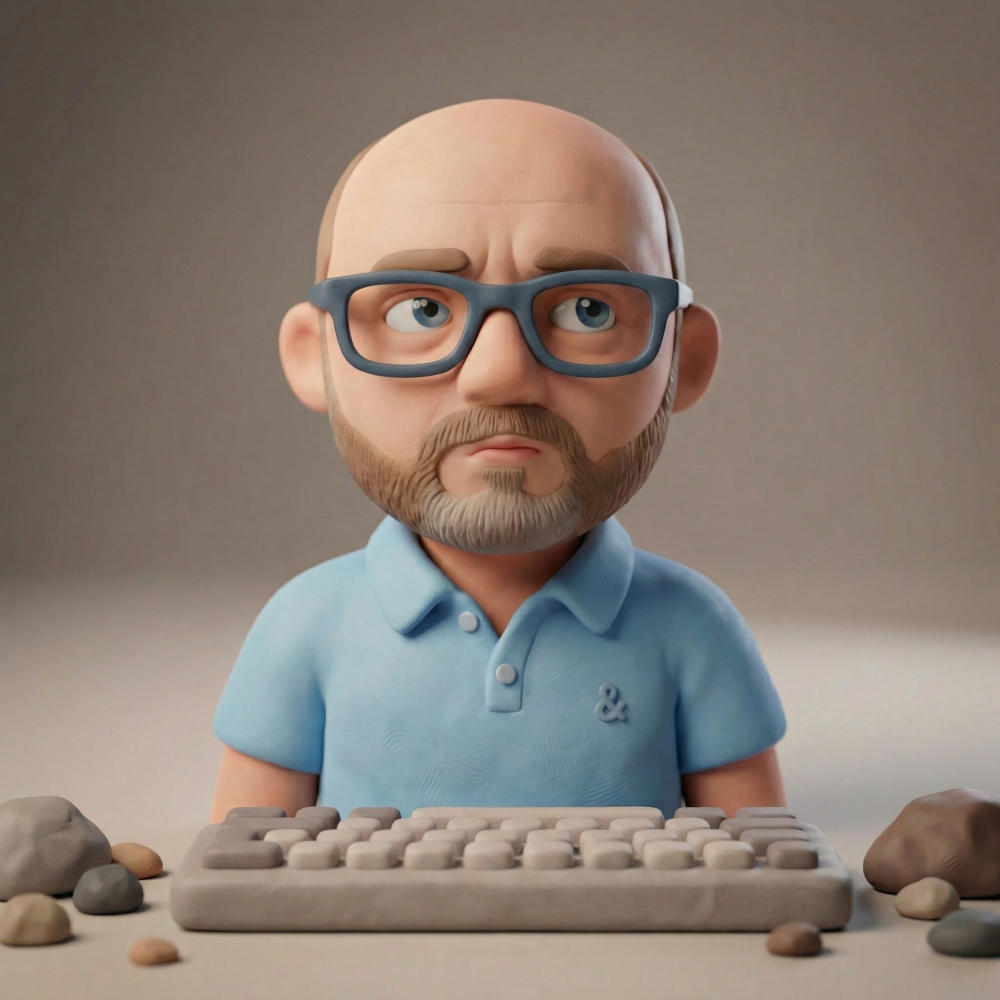
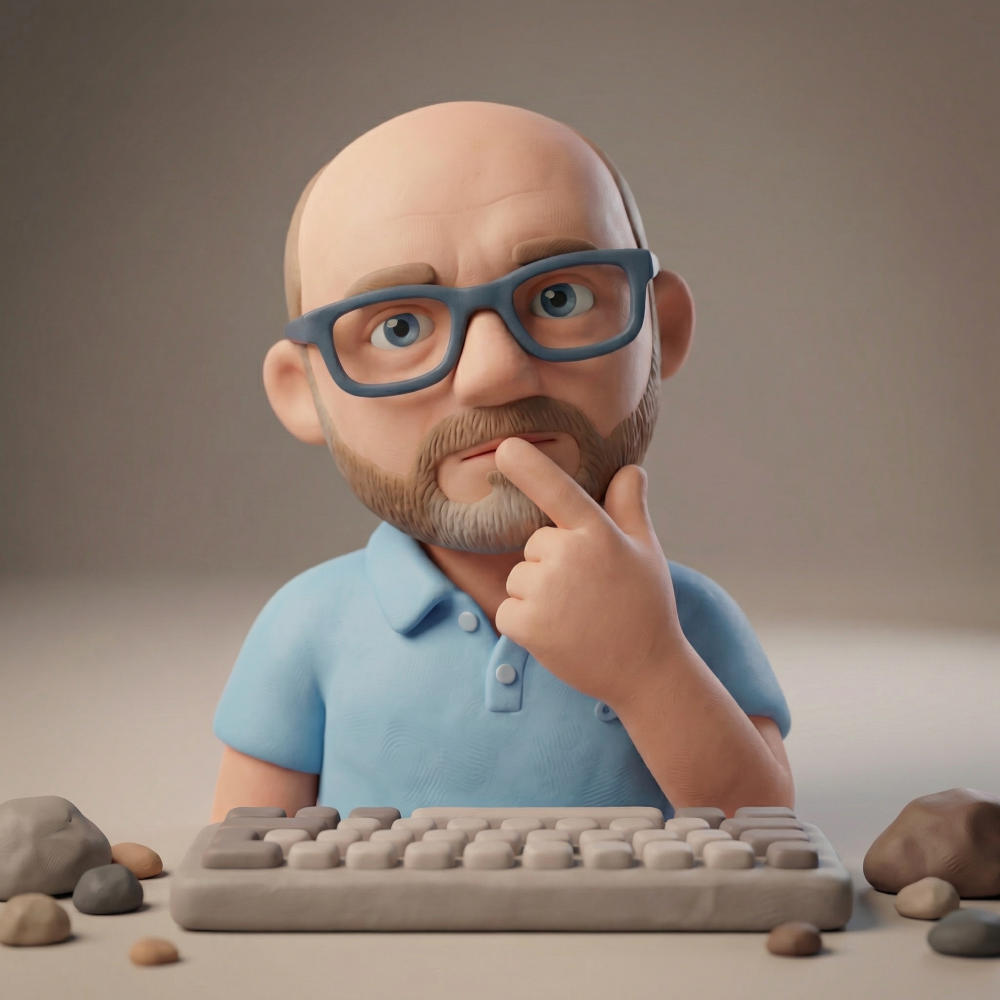
Add new Clay Frank images and lazy-load variants
Add four new Clay Frank image assets (holding_mug, sceptical, scratching_head, tilting_head) and update clay_frank_thinking.jpg. Update www/index.html to include the new images in the variants array (reorder/move thinking and add the new files) and change the preloading strategy: load the base image first, then preload other images in the base image's onload handler to reduce initial load time.

Changed region(s): [[0.248, 0.093, 0.806, 0.837]]

diff --git a/www/index.html b/www/index.html
@@ -43,19 +43,29 @@
                 'images/clay_frank_idea.jpg',
                 'images/clay_frank_looking_at_keyboard.jpg',
                 'images/clay_frank_smiling.jpg',
-                'images/clay_frank_thinking.jpg',
+                'images/clay_frank_sceptical.jpg',
                 'images/clay_frank_facepalm.jpg',
                 'images/clay_frank_grimacing_face.jpg',
                 'images/clay_frank_hands_up.jpg',
                 'images/clay_frank_rolling_eyes.jpg',
-                'images/clay_frank_winking_face.jpg'
+                'images/clay_frank_winking_face.jpg',
+                'images/clay_frank_holding_mug.jpg',
+                'images/clay_frank_scratching_head.jpg',
+                'images/clay_frank_tilting_head.jpg',
+                'images/clay_frank_thinking.jpg'
             ];
             
-            // Alle Bilder vorladen
-            [imgBase, imgClosedEyes, imgSleeping, ...imgVariants].forEach(src => {
-                const img = new Image();
-                img.src = src;
-            });
+            // Basisbild zuerst vorladen
+            const baseImg = new Image();
+            baseImg.src = imgBase;
+            
+            // Andere Bilder verzögert im Hintergrund vorladen
+            baseImg.onload = function() {
+                [imgClosedEyes, imgSleeping, ...imgVariants].forEach(src => {
+                    const img = new Image();
+                    img.src = src;
+                });
+            };
             
             let isShowingVariant = false;
             let isHolding = false;
